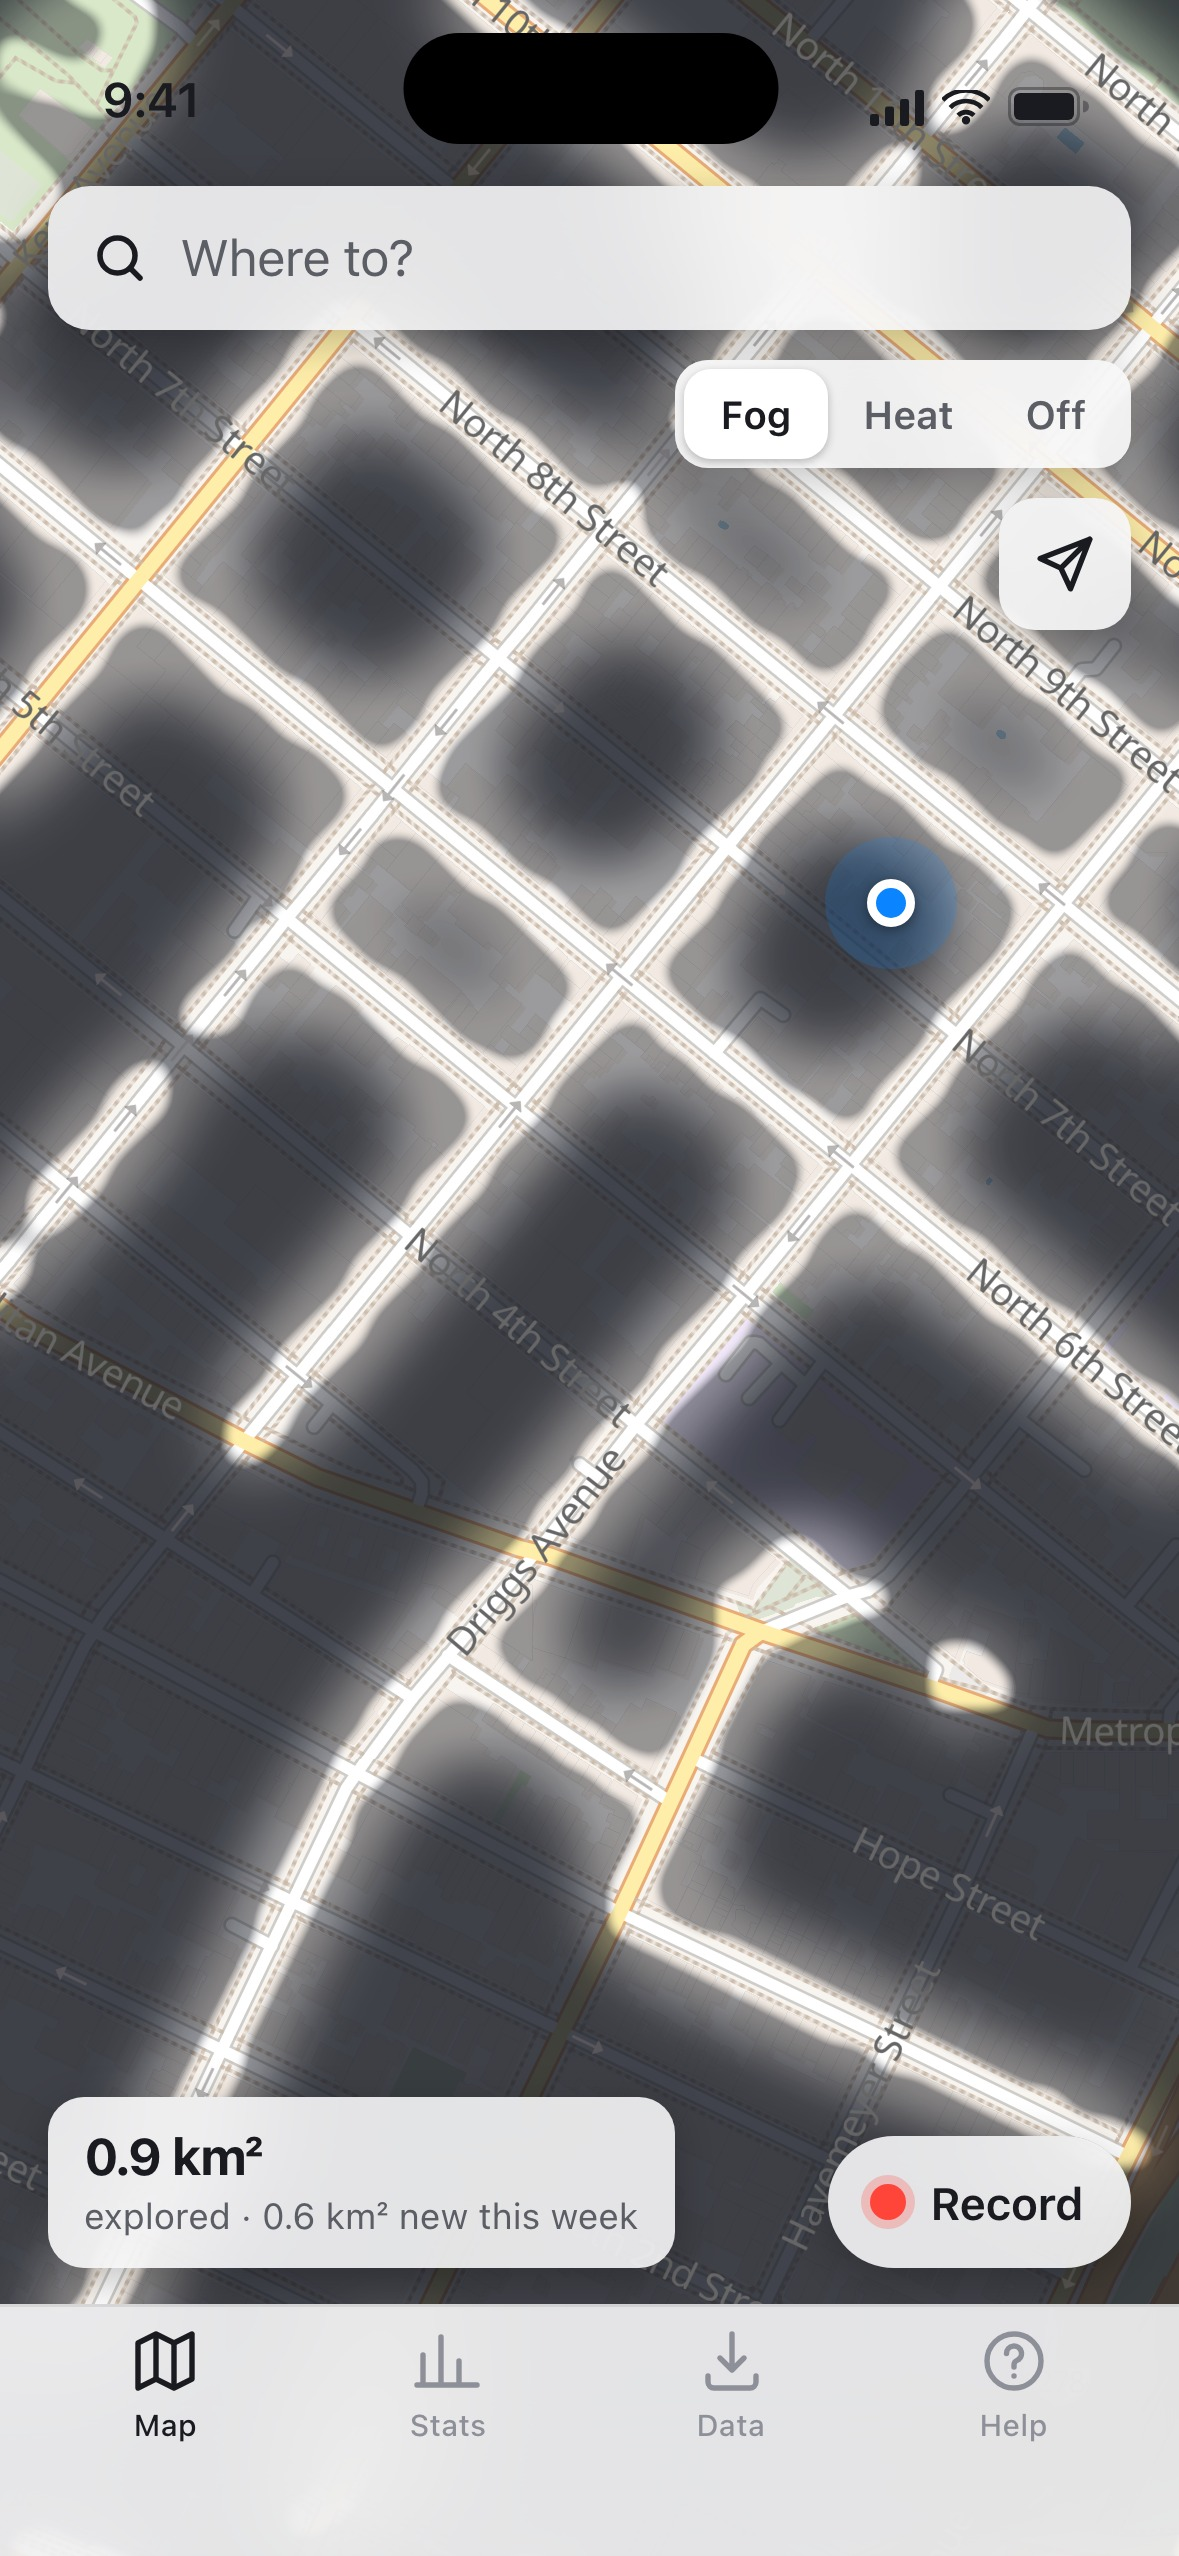
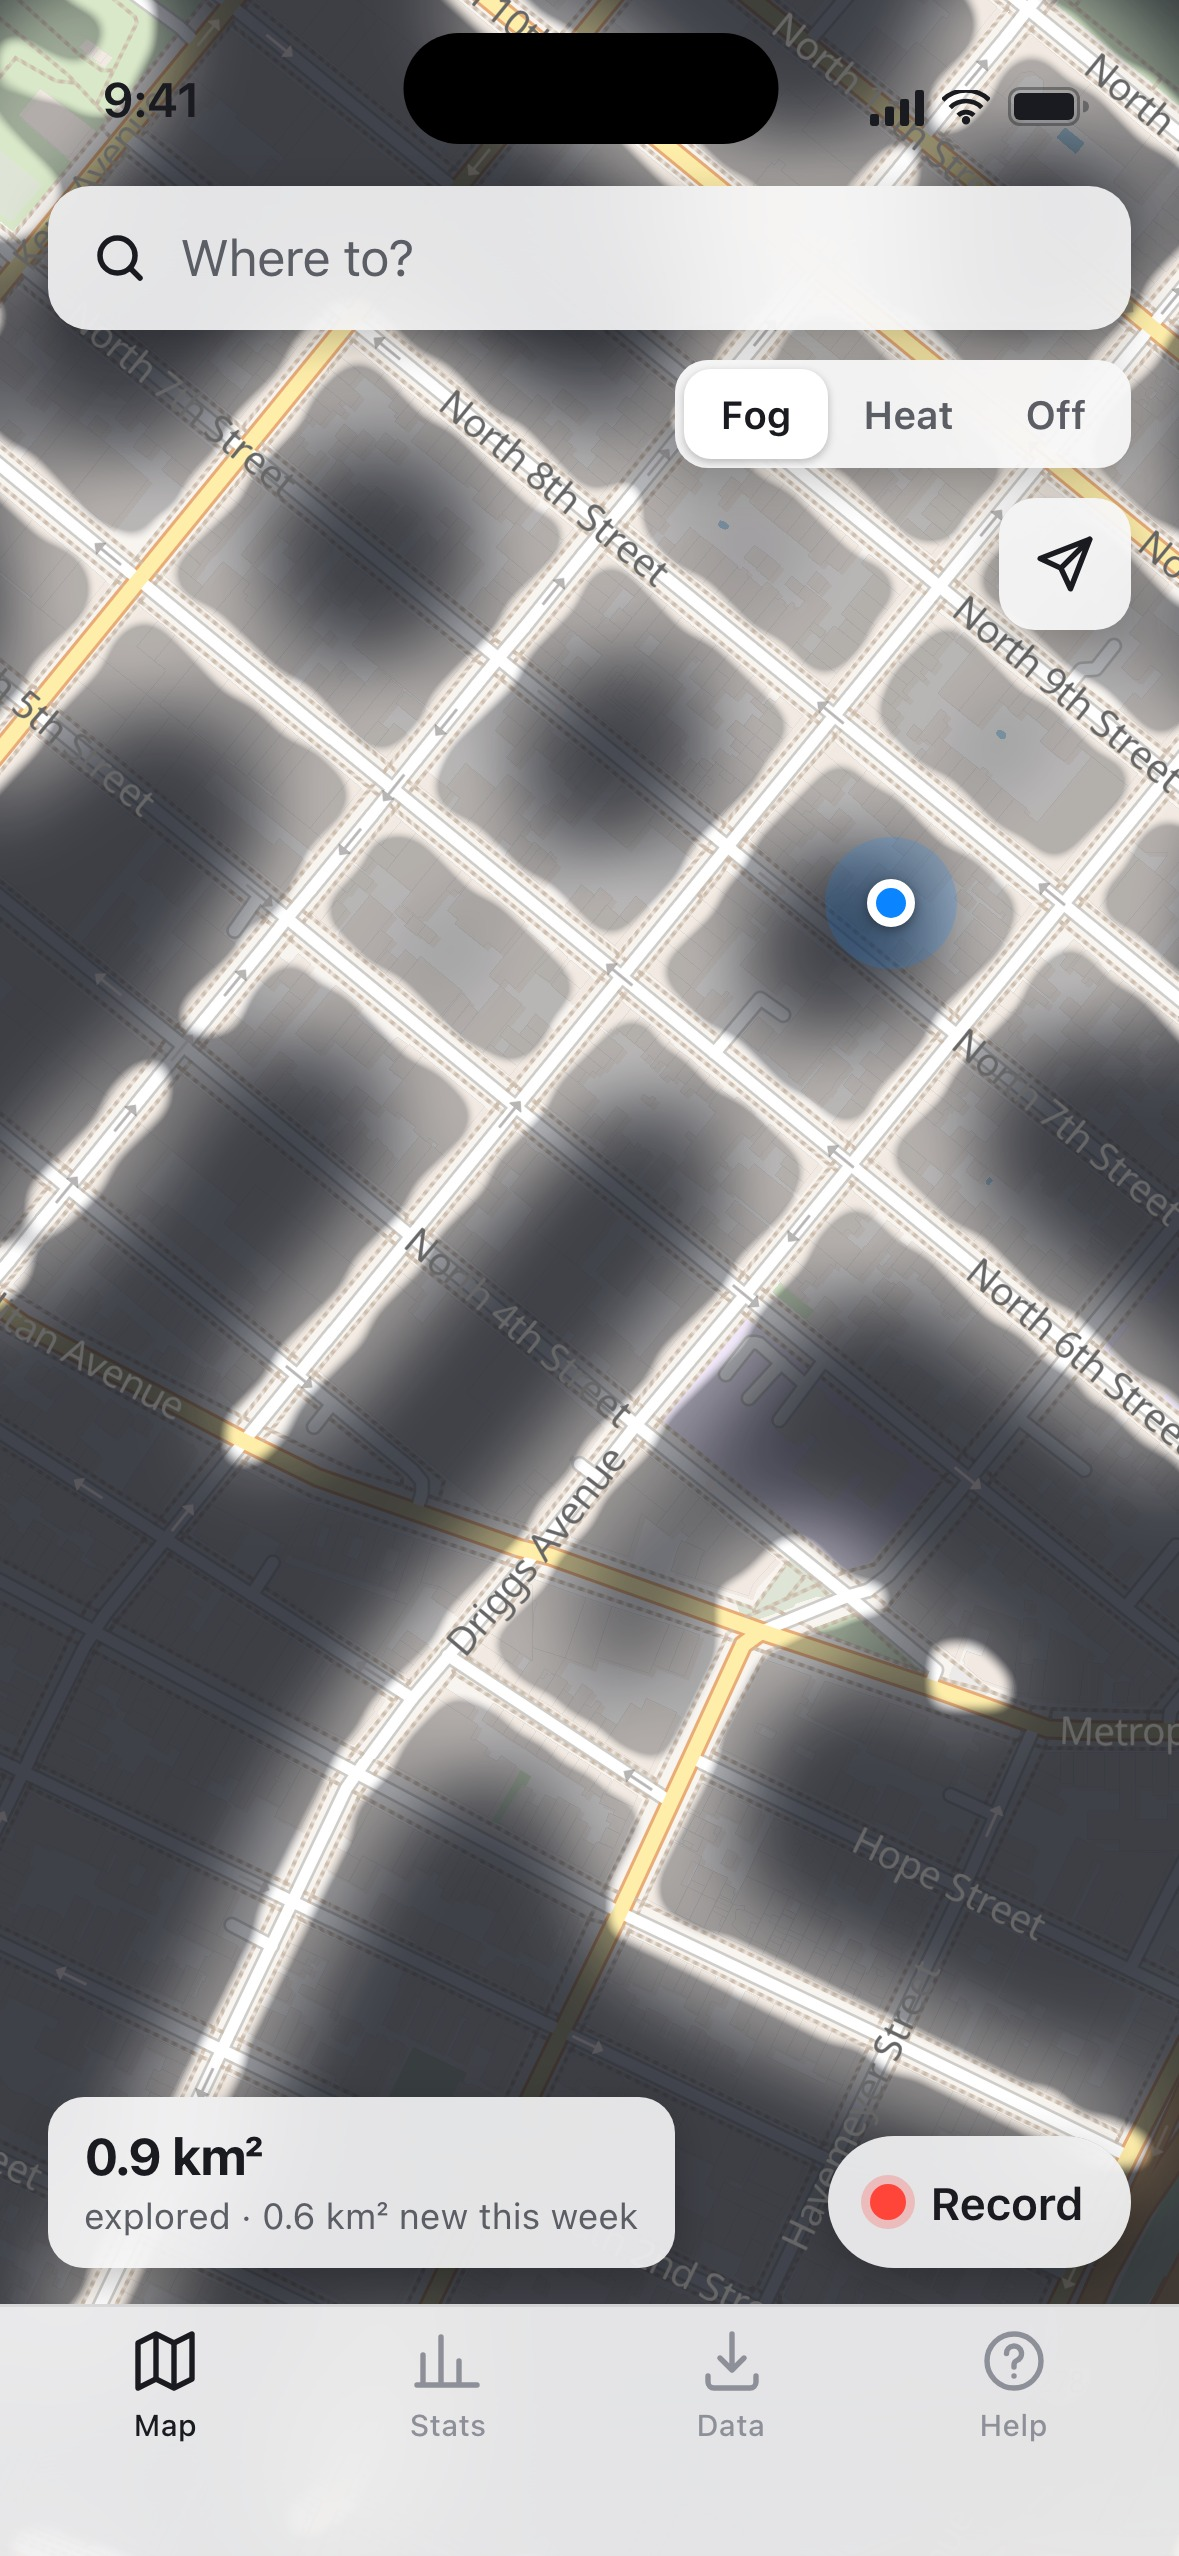
Fog defaults: feather 4.5, halo 0.65 (data's pick)
Claude-Session: https://claude.ai/code/session_01Kb2bQo8vZMT3TEEKx1mD5d

diff --git a/src/grid/api.ts b/src/grid/api.ts
@@ -13,9 +13,9 @@ export interface RenderSettings {
   fogAlpha: number;
   /** Fog colour RGB. Default [16, 20, 30]. */
   fogColor: [number, number, number];
-  /** Wide-feather sigma in cells (the deep halo). Default 3.5, range 2..5. */
+  /** Wide-feather sigma in cells (the deep halo). Default 4.5, range 2..6. */
   feather: number;
-  /** How much of the fog the halo lifts, 0..0.7. Default 0.5. */
+  /** How much of the fog the halo lifts, 0..0.8. Default 0.65. */
   halo: number;
   /** Cleared core: 1 = cell + 8 neighbours (~3 cells ≈ 20 m, default), 0 = the cell only (~7 m). */
   coreRadius: 0 | 1;
@@ -26,8 +26,8 @@ export interface RenderSettings {
 export const DEFAULT_RENDER_SETTINGS: RenderSettings = {
   fogAlpha: 0.8,
   fogColor: [16, 20, 30],
-  feather: 3.5,
-  halo: 0.5,
+  feather: 4.5,
+  halo: 0.65,
   coreRadius: 1,
   heatDim: 0.68,
 };

diff --git a/docs/BUILD-PLAN.md b/docs/BUILD-PLAN.md
@@ -54,9 +54,9 @@ Comlink for both.
 Raster tiles 512×512 for `fog://{z}/{x}/{y}?v={version}` and `heat://…`, rendered in the grid worker from the cell tiles at
 `levelForZoom(z)`, with a margin of neighbouring cells so blur is seamless across tile edges.
 - **Fog**: coverage field = cells (count>0) drawn as a 3-cell-wide core (the cell + 8 neighbours), rendered at the tile's pixel
-  scale, then two blurs: narrow σ≈0.9 cell → `core = smoothstep(0.30, 0.85, narrow)`, wide σ≈3.5 cells →
-  `halo = 0.5 · smoothstep(0.03, 0.5, wide)`; `clear = max(core, halo)`; fog RGBA = (16,20,30, 0.80·(1−clear)).
-  Settings expose feather (wide σ 2…5 cells) and halo strength (0…0.7). Below z≈12 skip the narrow pass (cells < 1 px).
+  scale, then two blurs: narrow σ≈0.9 cell → `core = smoothstep(0.30, 0.85, narrow)`, wide σ≈4.5 cells →
+  `halo = 0.65 · smoothstep(0.03, 0.5, wide)`; `clear = max(core, halo)`; fog RGBA = (16,20,30, 0.80·(1−clear)).
+  Settings expose feather (wide σ 2…6 cells) and halo strength (0…0.8). Defaults 4.5 / 0.65 = docs/mockups/fog.jpg (data's pick, 2026-09-02). Below z≈12 skip the narrow pass (cells < 1 px).
 - **Heat**: intensity = 0.22 + 0.78·(count−1)/7 (cap 1) per cell, blurred σ≈1 cell, ramp
   0.08→(255,214,120,.55) 0.3→(255,168,70,.85) 0.55→(255,104,56,.92) 0.8→(255,56,70,.96) 1→(255,40,120,1), composited over a dim
   layer (12,15,24, 0.68). Legend: 1 · 2–3 · 4–6 · 7+.
